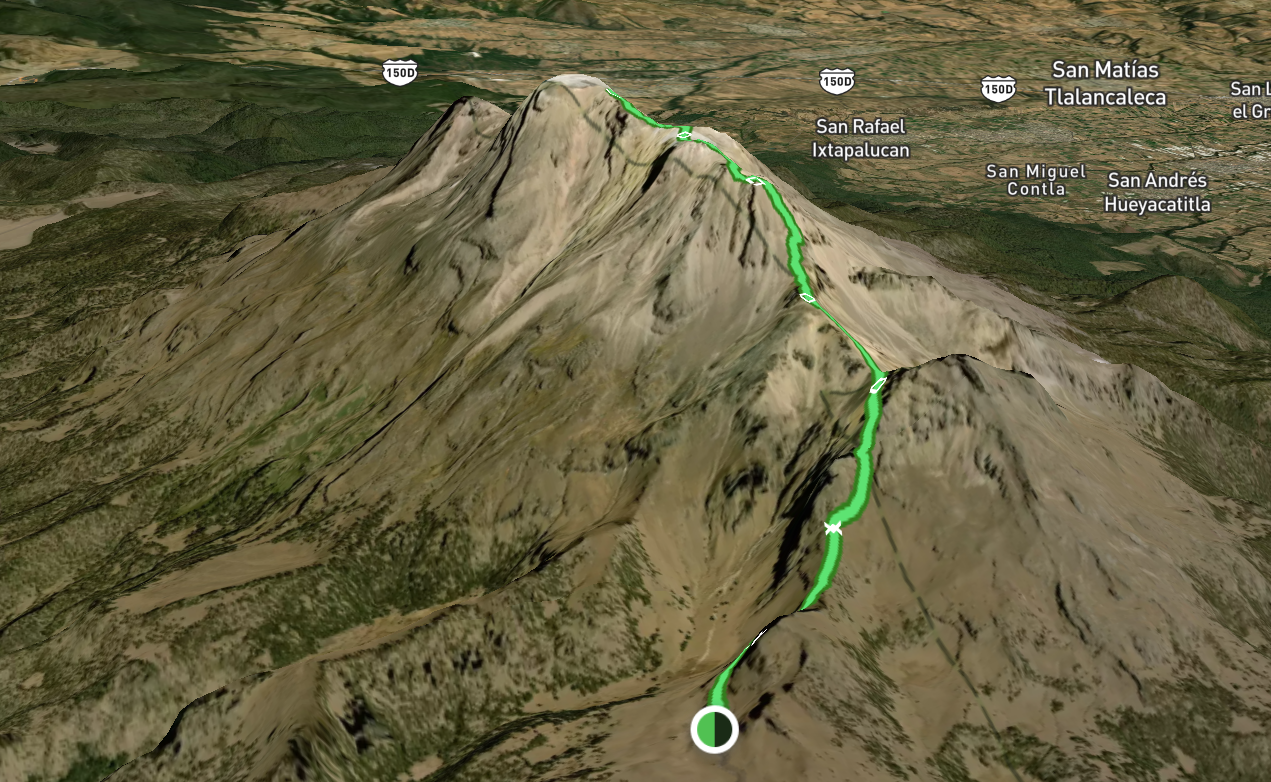
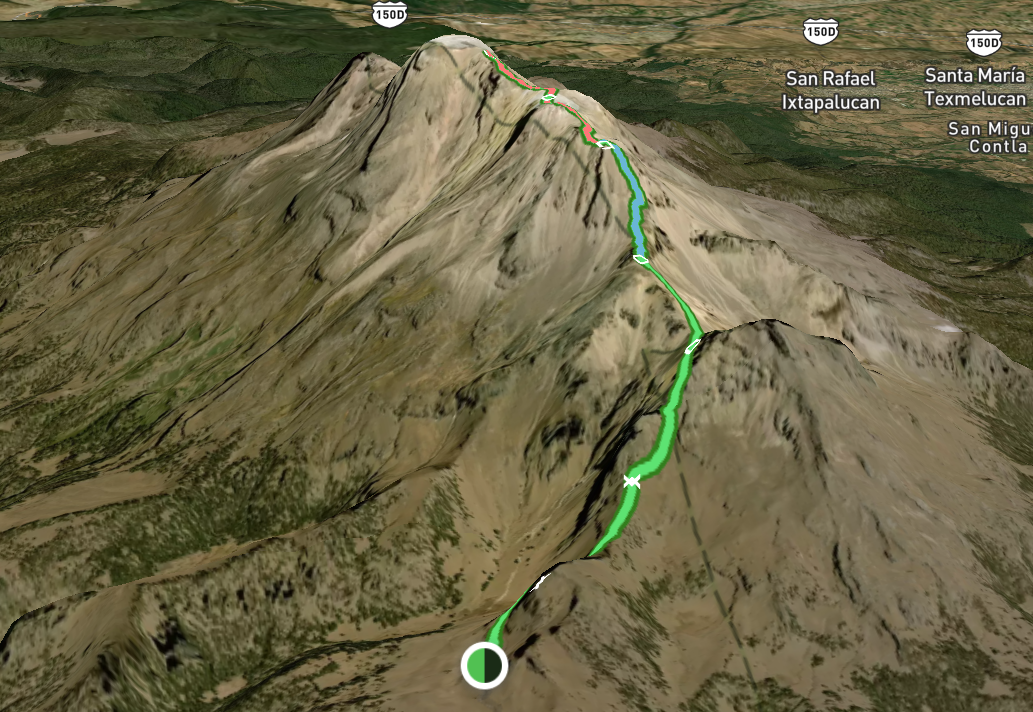
updated some images

diff --git a/_sass/_main.scss b/_sass/_main.scss
@@ -79,7 +79,7 @@ p.mark::before {
 }
 
 .mark.red::before {
-  background-color: rgb(253, 119, 119);
+  background-color: #fd7777;
 }
 
 .mark.blue::before {

diff --git a/_posts/en/2023-04-25-venezuela-en.md b/_posts/en/2023-04-25-venezuela-en.md
@@ -1,0 +1,131 @@
+---
+layout: post
+title: To Venezuela via the land border
+description: A note on what not to do
+comments: false
+tags: [latam,venezuela]
+lang: en
+ref: 2023-04-25-venezuela
+---
+
+I set out to visit as many Latin American countries as possible, and without the birthplace of the liberator of the Spanish colonies, Simon Bolivar, this list would not have been complete. I was also very interested to see the life of one of the most dangerous countries in the world.
+
+The idea of visiting Venezuela haunted me throughout my journey. I did not say a definite yes to myself, but unconsciously or not, but I was building the route so that with each new step the decision became easier for me. Eventually, a game of hide-and-seek with myself led me to the town of *Maicao*, a little provincial town which is 12km from the border with Venezuela. Now I couldn't help but go.
+
+I decided to go just for a couple of days. Obviously, this period is not enough for such a large and rich in terms of nature and culture country. I was scouting to see if the news of the danger was exaggerated or not. Fly tickets were unjustifiably expensive, so I decided to cross the border by land. And yes, it was not a good idea at all.
+
+{% 
+  include image.html 
+  file="1"
+  ratio="1.048"
+%}
+
+# Stay out, she'll chew you up
+
+Everyone I met while traveling in Central America told me that visiting Venezuela was too dangerous, especially across the land border. So I decided to prepare myself thoroughly. I left all my belongings at a hotel in Colombia. All I took were a small purse that held my phone and some dollar cash. Before the trip, I wrote to several hosts at *Airbnb* and asked about the situation in the city. Everyone said that the city was quiet. However, one of the hosts urged to be extremely careful when he knew of my decision to enter the country by land. The first bell.
+
+The journey starts at the [*Terminal De Maicao*](https://www.google.com/maps/place/Terminal+De+Maicao/@11.3812451,-72.2307166,17.81z/data=!4m20!1m13!4m12!1m3!2m2!1d-72.130661!2d11.360308!1m6!1m2!1s0x8e8bf3d4d84f0267:0x31a1450de089a7c6!2sMaicao,+La+Guajira!2m2!1d-72.2422465!2d11.3800543!3e0!3m5!1s0x8e8bf178a41f3dc7:0xc74ee299f28b89e1!8m2!3d11.3813474!4d-72.2296355!16s%2Fg%2F11g8ykfnry) bus station. Here is a transport company that operates transportation to *Maracaibo*. These are not buses that take you to Venezuela, but old american worn out cars. It felt like I wasn't at colombian bus station, but in *Detroit* during filming of *8 Mile*.
+
+{% 
+  include image.html 
+  file="5"
+  caption="Maicao bus terminal"
+%}
+
+So called "Buses" start running from 5 am and depart every half hour. The ticket price is <span class="rate" data-sym="COP" data-value="120000"/>, which is not cheap for a 3-hour journey. There were 6 people in the car, including the driver, all friendly in latin american manner. We drove to the border in 15 minutes.
+
+# Crossing the border
+
+The exit stamp was quickly placed. But during the entrance I started to have problems. The border guards were not satisfied that I had a 1-day *Airbnb* reservation. I needed to have at least 3 days. With difficulties, but still managed to get the entry stamp. Then there was a search and an impudent request to share $30. I pretended not to understand Spanish, an explanation with gestures followed, then an awkward silence, then I was released.
+
+Great, now we can get to *Maracaibo* with a breeze, I thought, and I was wrong.
+
+{% 
+  include image.html 
+  file="7"
+  caption="the border of Colombia and Venezuela"
+%}  
+
+The entire road from the border all the way to the city itself is littered with various posts and services that conduct security checks. Official posts alternated with barricades of garbage, barrels and tires, which were arranged by people who looked more like bums. Both of them demanded money. All of them, in my opinion, are fed by taking illegal bribes. Our driver would always discreetly leave a small amount of money at each such stop.
+
+The bums were not very interested in me, in opposite to the officials, who's attention to me was enourmous and annoying. I don't know what was the reason behind this. Did they simply wanted to earn money from me or my presence in such a non-tourist place was extremely suspicious for them, I don't know. Most probably, alltogether. In any case, the pattern was always the same. A stopover, a search, the same stupid and boring questions, then sometimes I was asked for money, even after they were realised that I didn't have any luggage or excess money.
+
+{% 
+  include image.html 
+  file="9"
+  caption="barricades on the road"
+%}
+
+{% 
+  include image.html 
+  file="6"
+  caption="passing through the poorest region of Venezuela, with only salt and scorching sun being the only riches here"
+%}
+
+In 90% of cases, I was released when I said that I had already given almost all the money, and I only had enough money left for food, housing, and the return trip. Which was almost truth. From all the monotony of such lengthy inspections, I want to highlight two episodes so that it is clear what you will be dealing with if you for some reason decide to do something like this.
+
+# Episode 1. Invitation for X-rays
+
+During the next stop and inspection of things, the policeman begins to carefully examine my only luggage - the purse. He obviously didn't like the news that I didn't have any other luggage and seemed suspicious. He continued to probe the purse until he found something. It felt like something was sewn inside. This was followed by a brilliant Tarantino dialogue
+
+<div class="chat">
+  <div class="mes">
+    <div> 👮♂ What's in the purse?</div>
+  </div>  
+
+  <div class="mes response">
+    <div>It's just a foam rubber collected in one place 🧑</div>
+  </div> 
+
+  <div class="action">
+    he cuts the purse with a knife and pulls out the foam rubber from there
+  </div>
+
+  <div class="mes">
+    <div>Are you carrying drugs in yourself?</div>
+  </div>  
+
+  <div class="mes response">
+    <div>No, I came to Venezuela for a couple of days, I travel all over Latin America, I want to know your country</div>
+  </div> 
+
+  <div class="mes">
+    <div>We need to make an X-ray. I have to check that you're not lying</div>
+  </div>  
+
+  <div class="mes response">
+    <div>Apt to you!</div>
+  </div> 
+
+  <div class="mes">
+    <div>.......</div>
+  </div>  
+
+  <div class="mes">
+    <div>Welcome to Venezuela, you are free</div>
+  </div> 
+</div>
+
+# Episode 2: The Police Station
+
+In the village of [*Paraguaipoa*](https://www.google.com/maps/place/Paraguaipoa+4037,+Zulia,+Venezuela/@11.3483875,-71.9784846,15z/data=!3m1!4b1!4m6!3m5!1s0x8e8bfd66bacc65df:0x15cb62441aff7e1f!8m2!3d11.3505515!4d-71.9668082!16s%2Fg%2F120vzkl0), we were stopped by passing policemens on a motorcycle and asked to proceed to the police station,  where I was taken to a windowless and unfurnished room with an interrogation table. Then the same stupid questions and searches began, they even pulled all the bills out of my wallet. After a while, everyone relaxed and cheered up a little bit. The whole precinct came running to see me. I was just beginning to believe in their decency when they started demanding money from me again. I said there was no extra money. They cleverly pointed out to me the rest of the Colombian pessos in my wallet and pointed out that they were not accepted in Venezuela, so I could share them. I couldn't urgue with that, and I didn't want to make any disputes in a foreign country for <span class="rate" data-sym="COP" data-value="123000"/> so I gave what they asked for.
+
+# Conclusion
+
+In total, the journey, which is supposed to be 3 hours, end up being 9 with all checks and interrogations. I arrived in the city already at sunset, contrary to what I planned to. Tired, but impressed. My fellow travelers and the driver reacted to the situation with understanding, and if any dissatisfaction existed, it was directed in the direction of people in uniform.
+
+The return journey was much easier, there were stops, but there were fewer of them, money was demanded, but not so categorically and not so often. We got to Colombia in 3 hours.
+
+{% 
+  include image.html 
+  file="8"
+  caption="on the way back to Colombia"
+%}
+
+I strongly advise against using this route. I have traveled a large number of land borders, but I have never experienced such lawlessness and feelings of insecurity. I made a very good decision to leave my valuables in Colombia. I am sure that if I had more money, I would have been robbed to the skin under various pretexts. Despite the fact that fly tickets can be unnecessarily expensive, I recommend to buy it instead of crossing the border by land. You can pay many times more at the border.
+
+
+
+
+
+

diff --git a/_posts/ru/2023-04-27-iztaccihuatl.md b/_posts/ru/2023-04-27-iztaccihuatl.md
@@ -130,7 +130,7 @@ lang: ru
 {% 
   include image.html 
   file="10"
-  ratio="0.61"
+  ratio="0.682"
   caption="разными цветами обозначены разные участки пути"
 %}
 
